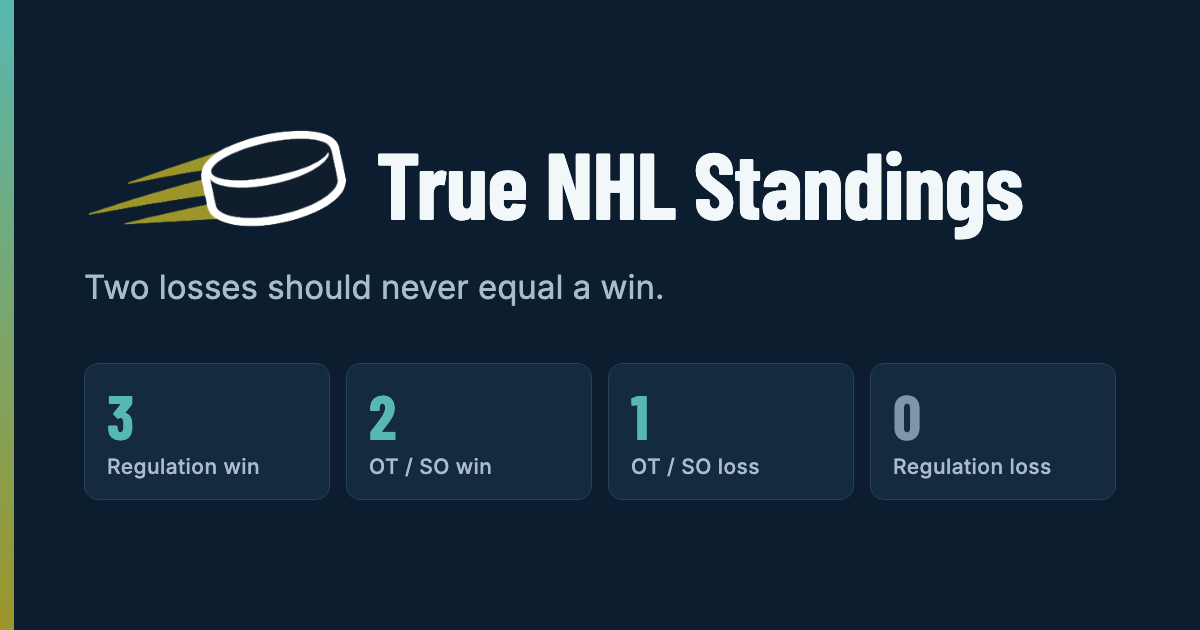
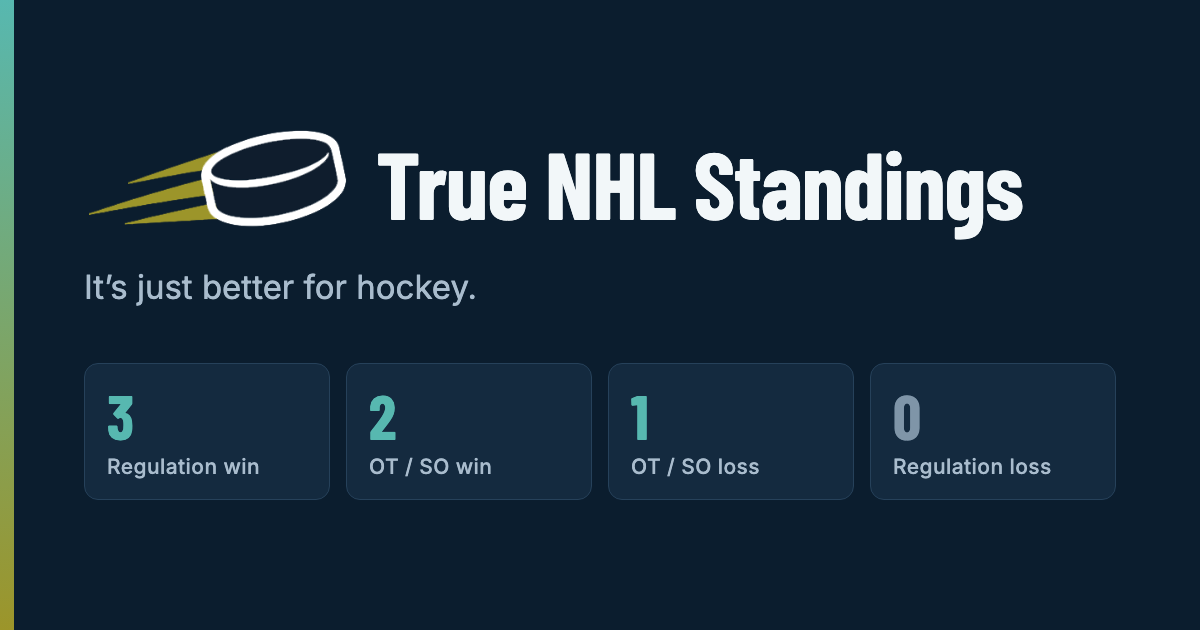
mod og-image; changing meta desc

Changed region(s): [[0.0617, 0.4222, 0.555, 0.4825]]

diff --git a/scripts/og-image.html b/scripts/og-image.html
@@ -27,7 +27,7 @@
[1 lines of base64/hex data omitted]
     <h1>True NHL Standings</h1>
   </div>
-  <p class="tag">Two losses should never equal a win.</p>
+  <p class="tag">It’s just better for hockey.</p>
   <div class="points">
     <div class="chip"><div class="n">3</div><div class="l">Regulation win</div></div>
     <div class="chip"><div class="n">2</div><div class="l">OT / SO win</div></div>

diff --git a/lib/site.ts b/lib/site.ts
@@ -20,8 +20,7 @@ export const SITE_NAME = "True NHL Standings";
 
 export const SITE_DESCRIPTION =
   "NHL standings with a better point system: 3 points for a regulation win, " +
-  "2 for an overtime or shootout win, 1 for an OT/SO loss. Two losses should " +
-  "never equal a win.";
+  "2 for an OT or SO win, 1 for an OT/SO loss.";
 
 export const OG_IMAGE: NonNullable<NonNullable<Metadata["openGraph"]>["images"]> = [
   {
